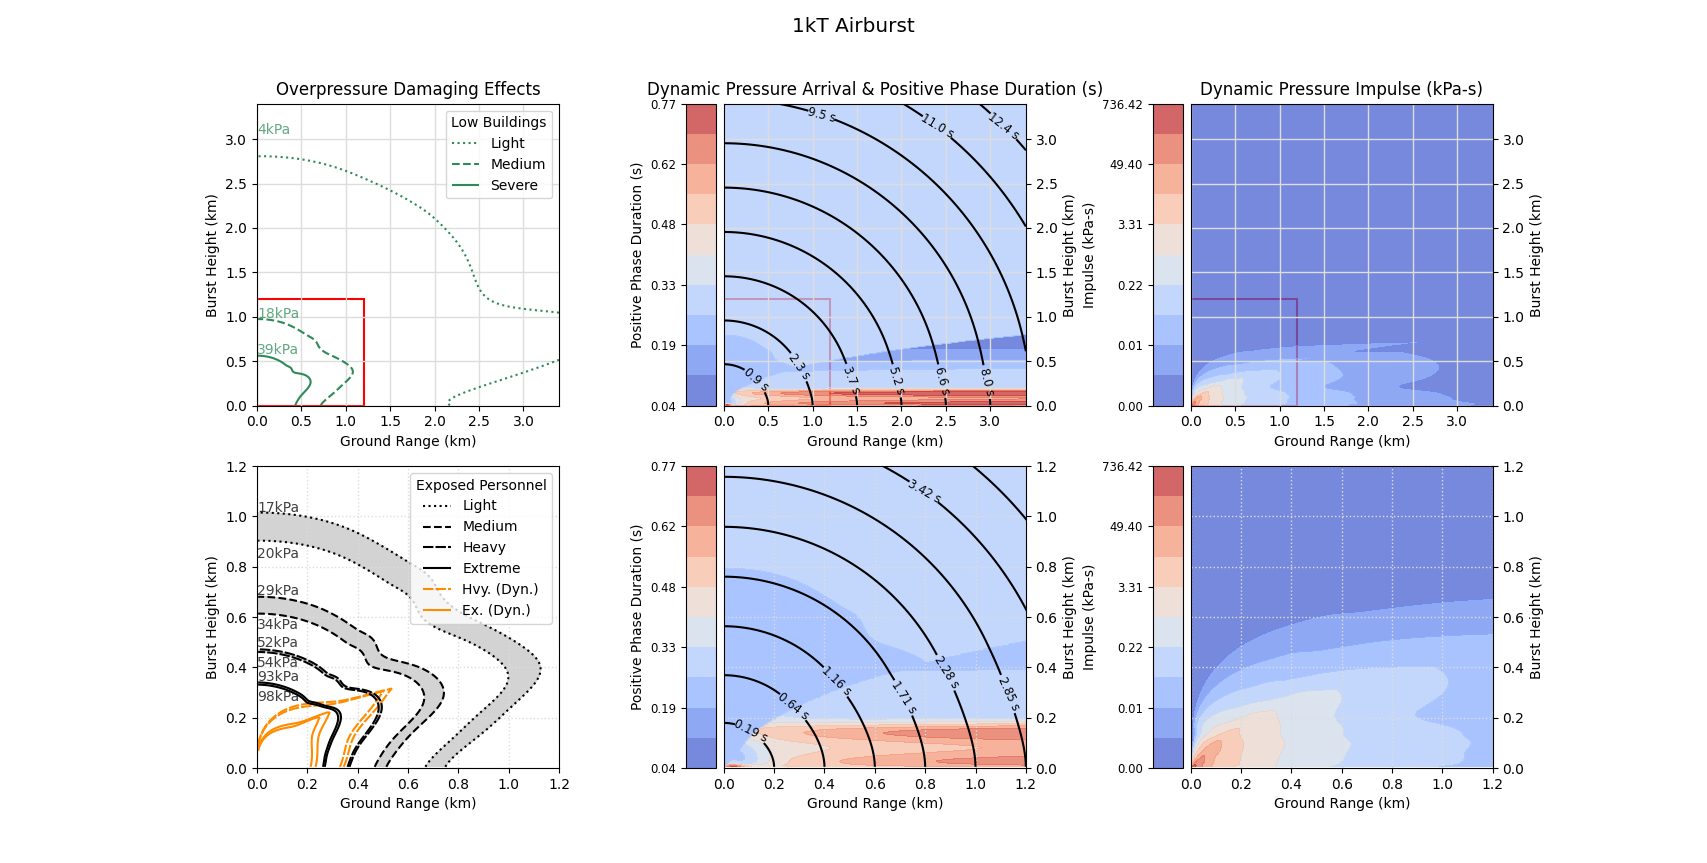
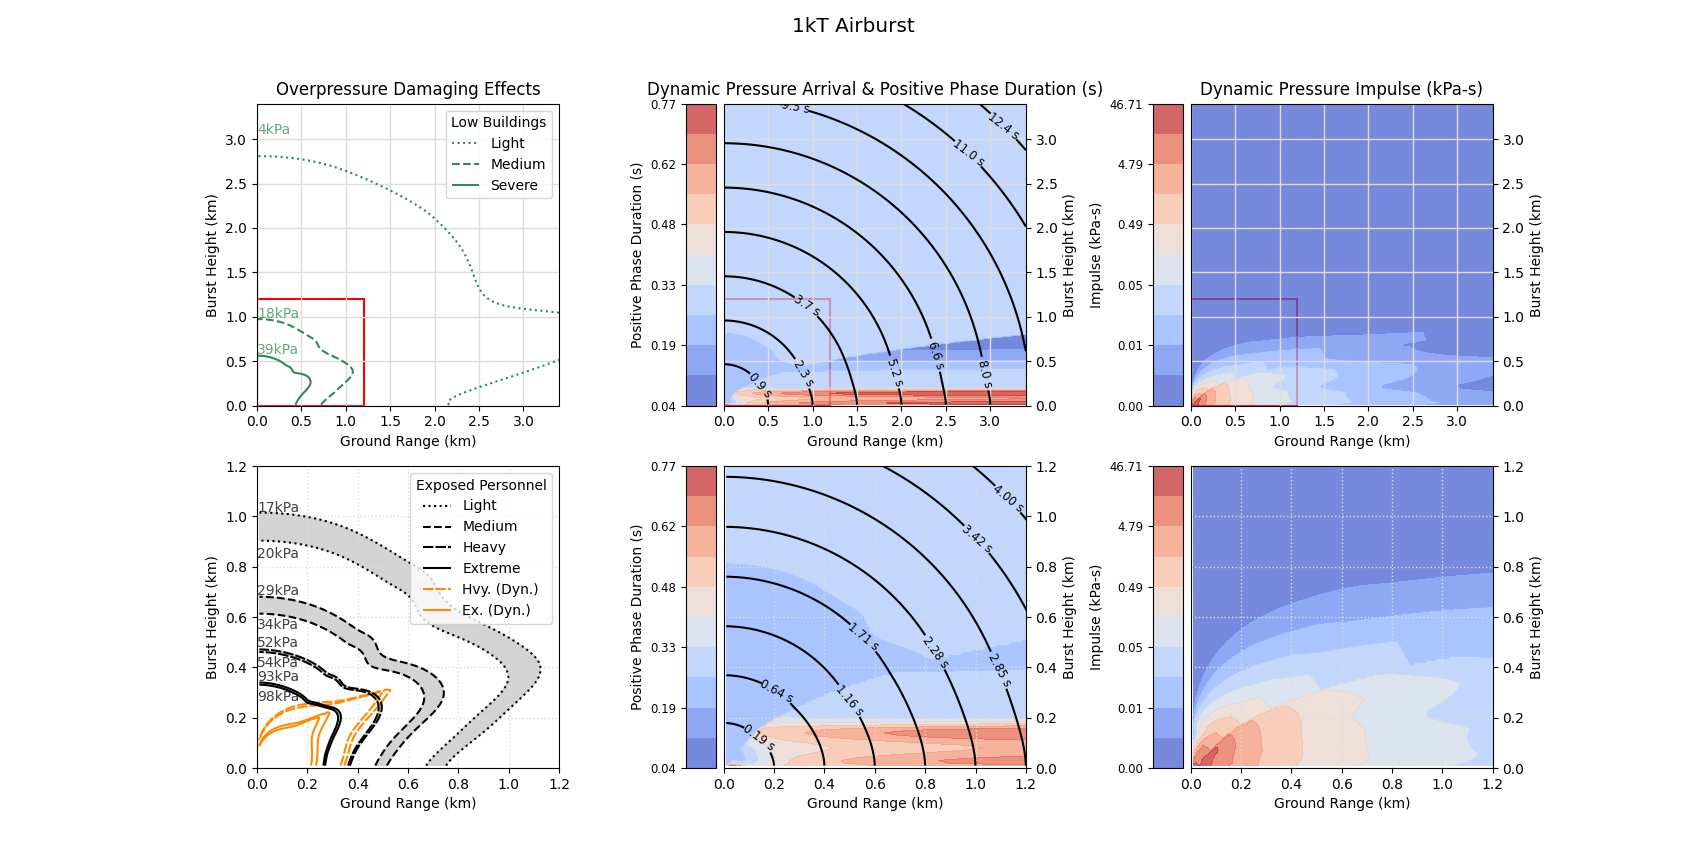
fixes
introduced a more nuanced approach for graphing, reverted to the relative error method for integration, and deleted misleading/incorrect estimation for dynamic pressure impulse in airburst scenario.

diff --git a/HeWu/modelBrode1987Airburst.py b/HeWu/modelBrode1987Airburst.py
@@ -148,15 +148,15 @@ def _w(r):
 def _Xm(GR, H, W):
     """
     scaled range at which Mach reflection begins for a given burst height,
-    onset of Mach reflection locus,in ft per kT**(1/3)
+    onset of Mach reflection locus,in ft per kT**(1/3)   
 
-                                  path of triple point
-                                        __/
+                                        __ path of triple point      
                                    ____/
-                            ______/    \
-                    _______/            \Mach stem (merged, single front)
+                            ______/    \\
+                    _______/            \\Mach stem (merged front)
     _______________/---------------------|----
-    reg.ref.region  mach reflection region
+    reg.ref.region | mach reflection region
+                   Xm
 
     GR: ground range in feet
     H: height of burst in feet
@@ -308,7 +308,7 @@ def _D_u(GR, H, W, D=None, Xm=None, DeltaP_s=None, tau=None):
     if tau is None:
         tau = _tau(GR, H, W, Xm)
 
-    if x * 1000 < Xm:  # in free-air-burst
+    if x * 1000 < Xm:  # this is fitted to DeltaP_s so should work by first principle
         if DeltaP_s is None:
             _pi = _DeltaP_s(GR, H, W) / 1000  # in ksi
         else:
@@ -859,39 +859,13 @@ def _I_u_pos(GR, H, W, DeltaP_s=None):
     if x > 170 * psi / (1 + 337 * psi**0.25) + 0.914 * psi**2.5:  # x> Xi
         return (E * x / (F + x**3.61) + G / (1 + 0.22 * x**2)) * m
     else:
-        """
-        free air-burst estimation, within 10% for 3 psi < Delta P_s < 10,000 psi
-        high by ~20% at DeltaP_s = 100,000 psi
-
-        if DeltaP_s is None:
-            DeltaP_s = _DeltaP_s(GR, H, W)
-
-        return (
-            2.14 * DeltaP_s**1.637 * m / (1 + 0.00434 * DeltaP_s**1.431)
-        )  # psi-ms, eq. 54)
-
-
-        """
-
-        r = (x**2 + y**2) ** 0.5
-
-        """A fit to the dynamic impulse versus range for the early calculations
-         [Brode, 1959b] agrees to better than 10 percent for 0.0025 - 2kft/kT^(1/3)"""
-
-        return (
-            18.8 * r**2 / (1e-6 + 0.06896 * r**3 + 0.5963 * r**5.652)
-            + 92.64 / (100 * r) ** 5
-            + 2935
-            * (r - 0.00597)
-            * (0.01 - r)
-            * (0.0003552 - r**4)
-            / (1e-10 + 0.003377 * r**2.5 + 155.8 * r**8)
-        ) * m
+        return None  # we were unable to source a good enough estimation for this
 
 
 def _I_p_pos(GR, H, W, DeltaP_s=None, Xm=None):
     """
     positive phase impulse in psi-ms, using a simple fit against overpressure peak
+    this should work for airburst as well as free-air.
 
     GR: ground range, feet
     H: height of burst, feet
@@ -979,9 +953,11 @@ def airburst(GR_m, H_m, W, t=None, prettyPrint=True):
     I_p_est = _I_p_pos(GR, H, W, DeltaP_s, Xm)
     I_u_est = _I_u_pos(GR, H, W, DeltaP_s)
 
-    IQEST = _uc_psi2pa(I_u_est / 1000)
-
     IPEST = _uc_psi2pa(I_p_est / 1000)
+    if I_u_est is not None:
+        IQEST = _uc_psi2pa(I_u_est / 1000)
+    else:
+        IQEST = None
 
     IPTOTAL = _uc_psi2pa(I_p_pos / 1000)
     IQTOTAL = _uc_psi2pa(I_u_pos / 1000)
@@ -1074,7 +1050,8 @@ if __name__ == "__main__":
     """
     by default, runs a test
     """
-
+    airburst(200, 200, 1)
+    """
     from HeWu.test import runABtest
 
     def _airburst_to_op(gr, h, Y, t):
@@ -1082,3 +1059,4 @@ if __name__ == "__main__":
         return p
 
     runABtest(_airburst_to_op)
+    """

diff --git a/graphs/airblast graph - en.py b/graphs/airblast graph - en.py
@@ -72,9 +72,13 @@ for gr in x:
         if iqi < 1:
             iqi = 1
 
-        IP[j][i] = ipi
+        # IP[j][i] = ipi
+        IP[j][i] = min(ipi, ipe)
         DPP[j][i] = dpp
-        IQ[j][i] = iqi
+        if iqe is not None:
+            IQ[j][i] = min(iqi, iqe)
+        else:
+            IQ[j][i] = iqi
         DPQ[j][i] = dpq
 
         j += 1

diff --git a/HeWu/intg.py b/HeWu/intg.py
@@ -74,7 +74,8 @@ def intg(f, l, u, tol=1e-3):
         I = I * 0.5 + dI
         k += 1
 
-        if d < tol or d < tol * I:
+        # if d < tol or d < tol * I:
+        if d < tol * abs(I):
             c += 1
         else:
             c = 0
